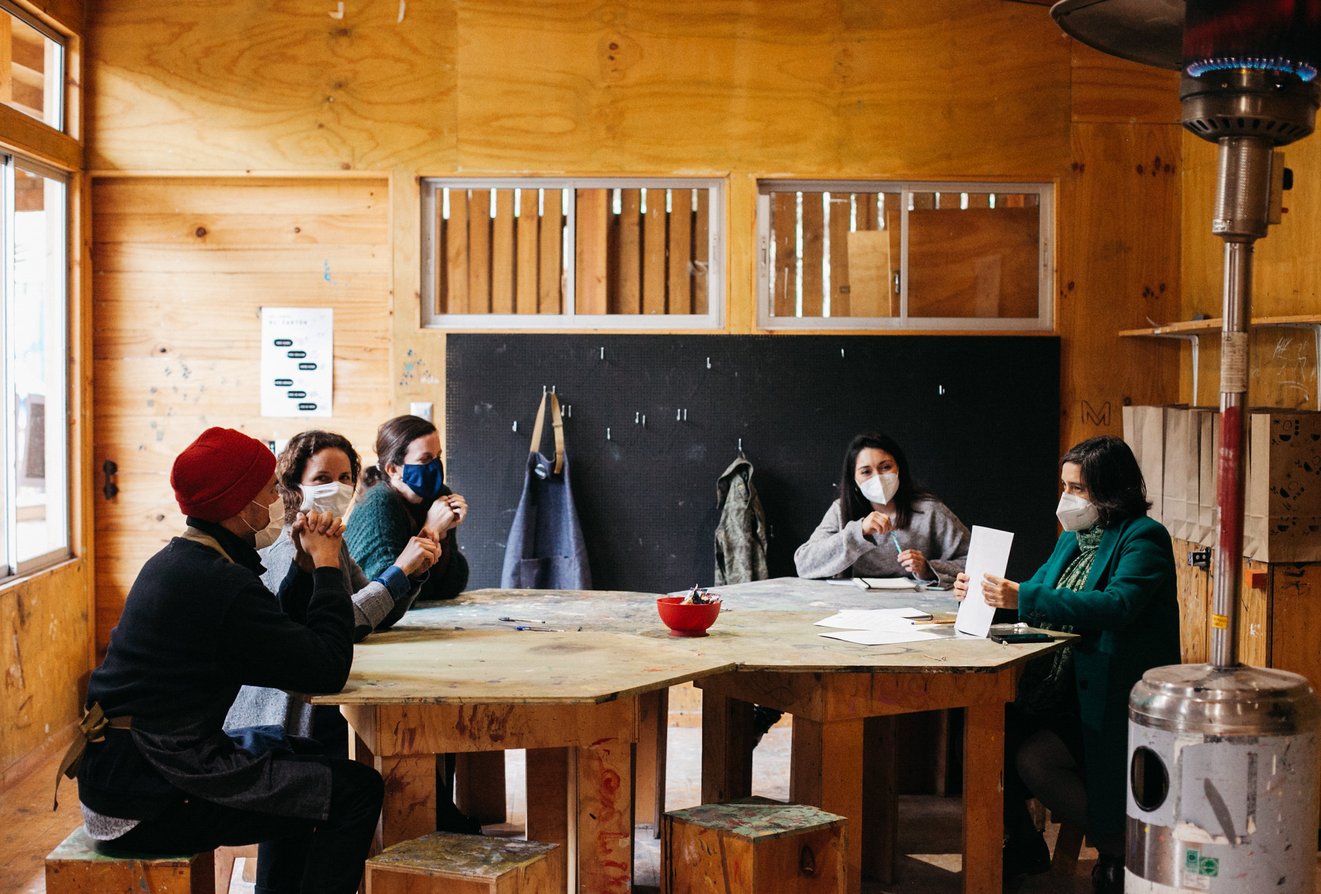
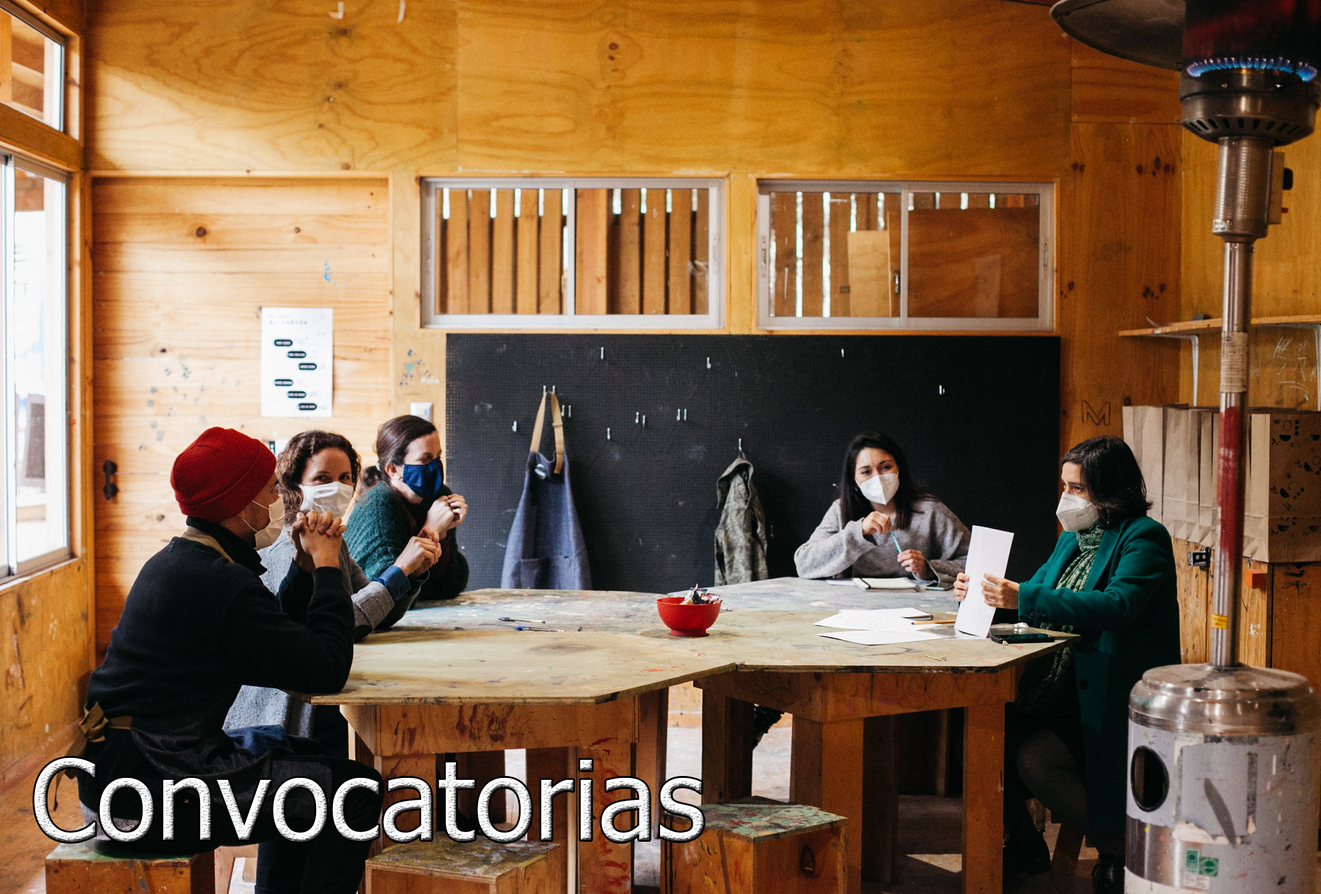
Login Final

Changed region(s): [[0.0, 0.8377, 0.5312, 0.9618]]

diff --git a/pagina_01/templates/pagina_01/index.html b/pagina_01/templates/pagina_01/index.html
@@ -18,13 +18,13 @@
             <ul>
                 <li>
                     <a href="../login/">
-                        <button type="button" class="btn btn-success btn-lg">
+                        <button type="button" class="btn btn-success">
                             <i class="far fa-calendar-check"></i> Novedades
                         </button>
                     </a>
 
                     <a href="../accounts/login/">
-                        <button type="button" class="btn btn-success btn-lg">
+                        <button type="button" class="btn btn-success">
                             <i class="fas fa-angle-right"></i> Iniciar Sesión
                         </button>
                     </a>
@@ -35,13 +35,18 @@
     </header>
     <script src="/static/js/bootstrap.js"></script>
 
-    <a class='visitanos' href= 'https://www.fundacioncolunga.org/convocatorias/'>
-        <img class='click' src="{% static 'img/convocatorias.jpg'%}" alt="my image">
-        <p class='convocatorias'>Convocatorias</p>
-    </a>
-
-    <a class='visitanos2' href= 'https://www.fundacioncolunga.org/'>
-        <img class='click2' src="{% static 'img/cap6.png'%}" alt="my image">
-    </a>
+    <div class="container">
+        <div class="row">
+          <div class="col" style='margin-top: 100px; margin-left: 50px; '>
+            <a class='visitanos2' href= 'https://www.fundacioncolunga.org/'>
+                <img class='click2' src="{% static 'img/cap6.png'%}" alt="my image">
+          </div>
+          <div class="col order-12" style='margin-top: 100px; margin-bottom: 50px; margin-left: auto;'>
+            <a class='visitanos' href= 'https://www.fundacioncolunga.org/convocatorias/'>
+                <img class='click' src="{% static 'img/convocatorias.jpg'%}" alt="my image">
+            </a>
+          </div>
+        </div>
+      </div>
 </body>
 </html>

diff --git a/pagina_01/static/css/indexestilos.css b/pagina_01/static/css/indexestilos.css
@@ -27,7 +27,7 @@ li:hover a{
 }
 
 body{
-    background-image: url(../img/fondo2.png);
+    background-image: url(../img/fondo3.png);
     background-position: 0% 150px; /*posicion de la imagen en x (0 si no la quieres mover) y*/
     background-size: 100% 100%; /*ajusta la imagen a tamaño completo de la pagina*/
     background-repeat: no-repeat; /*para que la imagen no se repita continuamente rellando los espacios vacios*/
@@ -44,27 +44,36 @@ body{
     min-width: 400px;
     margin: auto;
     border: 4px solid #07f161;
-    margin-left: 800px;
-    margin-top: 150px;
     border-radius: 20px;
     box-shadow: 7px 13px 37px;
     
 }
 
-.convocatorias{
+/* .convocatorias{
     color: aliceblue;
     font-size: 40px;
     font-style: oblique;
     margin-left: 830px;
     margin-top: -100px;
-}
+} */
 
 .click2{
     min-width: 300px;
     margin: auto;
     border: 4px solid #05ec66;
-    margin-left: 250px;
-    margin-top: -280px;
     border-radius: 20px;
     box-shadow: 7px 13px 37px;
+} 
+
+.col{
+    display:block;
+    margin-left: auto;
+    margin-right: auto;
+}
+
+.col order-12{
+    text-align: left;
+    display:block;
+    margin-left: auto;
+    margin-right: auto;
 }
